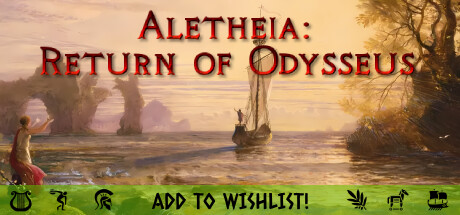
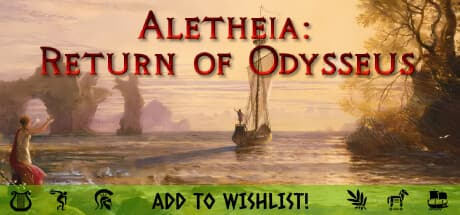
Image optimisation

diff --git a/src/pages/GamePage.tsx b/src/pages/GamePage.tsx
@@ -31,7 +31,7 @@ function GamePage() {
         }}
       >
         <img
-          src={`/pageBackgrounds/${project.page}.png`}
+          src={`/pageBackgrounds/${project.page}.jpg`}
           alt="Background"
           style={{
             height: "auto",
